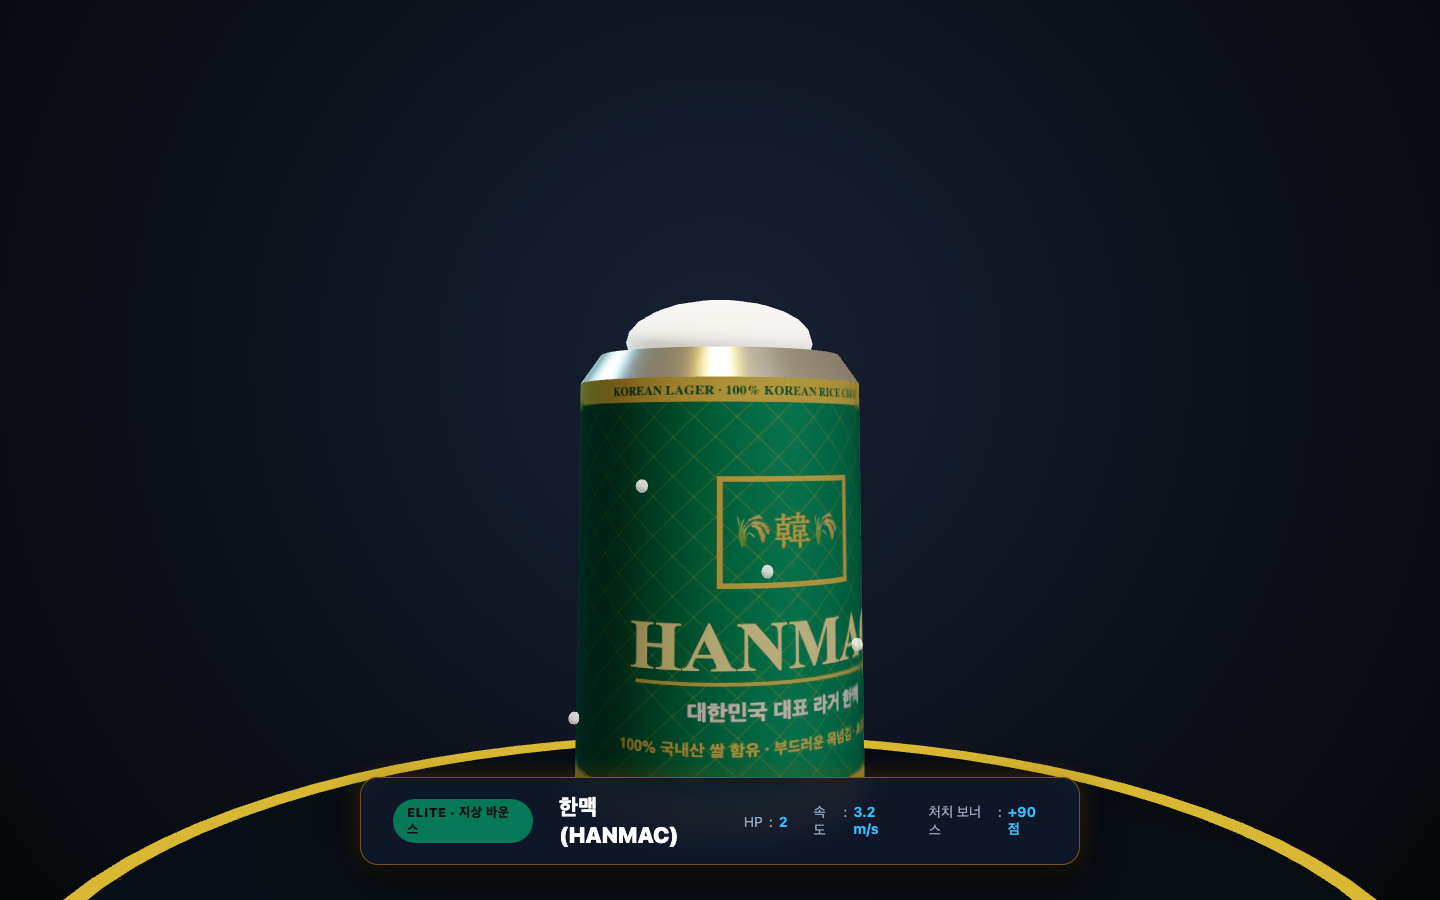
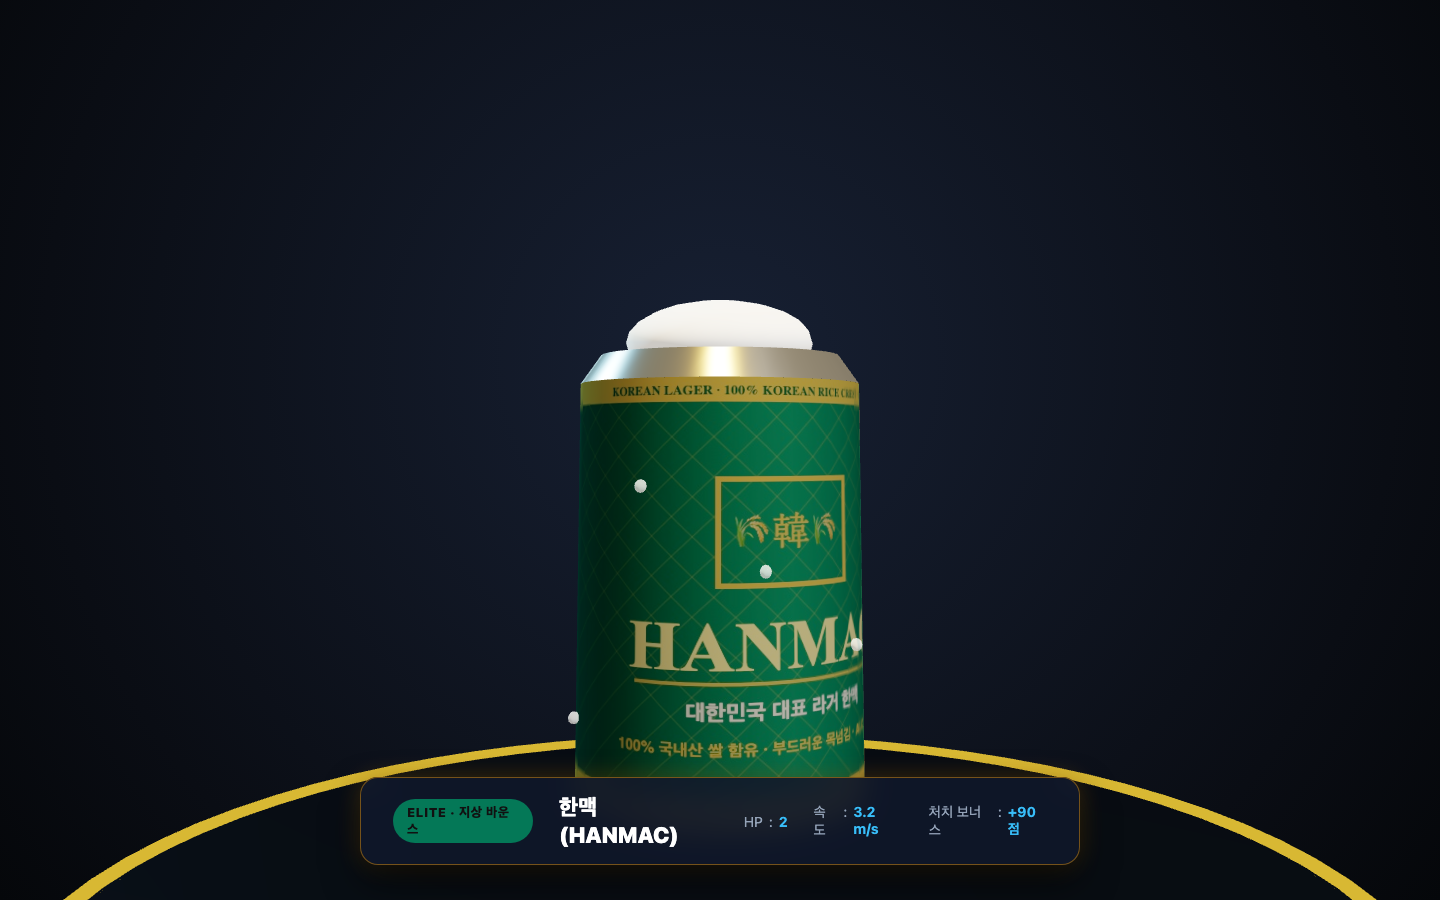
docs: update monster/item studio and recapture all codex screenshots with real Cass bottle and item billboards
Plan: 2026-11-02-cass-real-texture-and-item-billboard
Phase: P01-cass-real-texture-and-item-billboard
Task: T03-studio-and-doc-screens-refresh

- Update monster-studio.html with photorealistic Cass bottle neck label and persistent 3D item billboards
- Recapture all 6 monster renders, 4 item renders, both lineups, and live in-game battle screenshot
- Update 몬스터_도감_설명서.md with latest high-fidelity screenshots
- Validate 32/32 unit tests pass and zero TypeScript errors

Changed region(s): [[0.4375, 0.6844, 0.5938, 0.84], [0.5, 0.56, 0.5938, 0.6222], [0.4375, 0.4044, 0.5625, 0.4356]]

diff --git a/docs/monster-studio.html b/docs/monster-studio.html
@@ -209,6 +209,20 @@
         labelMesh.position.y = 0.38;
         g.add(labelMesh);
 
+        // Neck Label mapped cylinder (All New Cass blue ribbon)
+        const neckLabelMesh = new THREE.Mesh(new THREE.CylinderGeometry(0.183, 0.183, 0.22, 24), labelMat);
+        neckLabelMesh.position.y = 1.25;
+        g.add(neckLabelMesh);
+
+        // Condensation water droplets
+        const dropMat = new THREE.MeshPhysicalMaterial({ color: 0xffffff, transparent: true, opacity: 0.85, roughness: 0.05, ior: 1.33 });
+        for (let i = 0; i < 8; i++) {
+          const drop = new THREE.Mesh(new THREE.SphereGeometry(0.022, 6, 6), dropMat);
+          const angle = (i * Math.PI) / 4 + 0.3;
+          drop.position.set(Math.cos(angle) * 0.43, 0.15 + (i % 4) * 0.18, Math.sin(angle) * 0.43);
+          g.add(drop);
+        }
+
         // Shoulder
         const shoulder = new THREE.Mesh(new THREE.CylinderGeometry(0.18, 0.42, 0.28, 24), glassMat);
         shoulder.position.y = 0.94;
@@ -362,7 +376,59 @@
         g.add(ribbon);
       }
 
+      // Persistent 3D Neon Billboard Label Card (Plan 1 Mockup)
+      g.add(createBillboardSprite(itemKind));
+
       return g;
+    }
+
+    function createBillboardSprite(itemKind) {
+      const billboardCanvas = document.createElement('canvas');
+      billboardCanvas.width = 512;
+      billboardCanvas.height = 128;
+      const bctx = billboardCanvas.getContext('2d');
+      const meta = {
+        power_shot: { border: '#ef4444', text: '💥 DAMAGE 2X' },
+        wide_scope: { border: '#38bdf8', text: '🎯 WIDE 1.6X' },
+        ice_freeze: { border: '#60a5fa', text: '🧊 SLOW 50%' },
+        bar_repair: { border: '#10b981', text: '🍺 LIFE +1' },
+      }[itemKind] || { border: '#f59e0b', text: itemKind };
+
+      // Dark rounded card background
+      bctx.fillStyle = 'rgba(15, 23, 42, 0.94)';
+      bctx.beginPath();
+      if (bctx.roundRect) {
+        bctx.roundRect(8, 8, 496, 112, 24);
+      } else {
+        bctx.rect(8, 8, 496, 112);
+      }
+      bctx.fill();
+
+      // Glowing neon border
+      bctx.strokeStyle = meta.border;
+      bctx.lineWidth = 8;
+      bctx.shadowColor = meta.border;
+      bctx.shadowBlur = 18;
+      bctx.stroke();
+
+      // Bold white typography
+      bctx.font = '900 48px "Pretendard", "Arial Black", Impact, sans-serif';
+      bctx.textAlign = 'center';
+      bctx.textBaseline = 'middle';
+      bctx.fillStyle = '#ffffff';
+      bctx.fillText(meta.text, 256, 64);
+
+      const tex = new THREE.CanvasTexture(billboardCanvas);
+      const mat = new THREE.SpriteMaterial({
+        map: tex,
+        transparent: true,
+        opacity: 0.98,
+        depthWrite: false,
+      });
+      const sprite = new THREE.Sprite(mat);
+      sprite.scale.set(1.6, 0.40, 1.0);
+      sprite.position.set(0, 0.85, 0);
+      return sprite;
     }
 
     const MONSTER_SPECS = {

diff --git a/docs/몬스터_도감_설명서.md b/docs/몬스터_도감_설명서.md
@@ -51,7 +51,7 @@
 #### 5. 카스 프레시 500ml 병맥주 (Cass Fresh Bottle) — *올 뉴 카스 물리 유리병 크루저*
 ![카스 프레시 병맥주](./screens/monster-05-cass-bottle.png)
 - **타입**: 지상 중형 크루저 (Ground Heavy, 고도 `0.55m`)
-- **외형**: 투명 PBR 물리 굴절 유리(`transmission: 0.88`, `ior: 1.52`), 카스 딥 블루/실버 1024×512 라벨, 상단 은색 왕관 뚜껑(크라운 캡), 내부 황금빛 맥주 액체와 상승 탄산 기포 비즈
+- **외형**: 투명 PBR 물리 굴절 유리(`transmission: 0.88`, `ior: 1.52`), 실제 카스 프레시 실사 블루 쉐브론 로고 및 넥 밴드 2중 라벨 매핑, 표면 입체 물방울 결로 비즈 10개 부착, 상단 은색 왕관 뚜껑(크라운 캡), 내부 황금빛 맥주 액체와 상승 탄산 기포 비즈
 - **특징**: 3HP의 단단한 체력을 지닌 중장갑 병맥주 타겟입니다. 1~2타 피격 시 단단한 유리 타격음이 발생하며, 3타 격파 시 경쾌한 "뻥!" 오픈 사운드와 함께 은색 크라운 뚜껑이 위로 높이 솟구치고 투명 유리 파편과 맥주 분수가 사방으로 뿜어져 나옵니다. 모바일 0.25초 래피드 홀드(연사)나 피버 모드로 신속하게 처리하세요!
 
 #### 6. 업소용 생맥주 냉각기 보스 (Boss Dispenser) — *최종 레이드 보스*
@@ -64,19 +64,20 @@
 
 ## 🎁 2. 오비 펍 아이템 4종 도감 및 활용 가이드
 
-웨이브 진행 중 전장에 떠오르는 오비 펍 소품형 아이템을 사격해 맞히면, **피격된 바로 그 3D 월드 좌표에서 영문 숏라벨(`💥 DAMAGE 2X`, `🎯 WIDE 1.6X`, `🧊 SLOW 50%`, `🍺 LIFE +1`)이 0.8초간 위로 솟구치며 페이드아웃**되고, 화려한 3D 실시간 비주얼 상태 효과가 즉시 발동합니다!  
+웨이브 진행 중 전장에 떠오르는 오비 펍 소품형 아이템은 머리 위(`y = +0.60m`)에 **3D 아케이드 네온 빌보드 라벨 카드(`[💥 DAMAGE 2X]`, `[🎯 WIDE 1.6X]`, `[🧊 SLOW 50%]`, `[🍺 LIFE +1]`)**를 상시 부유하고 있어, 18m 원거리에서도 0.1초 만에 어떤 아이템인지 즉각 식별할 수 있습니다!  
+아이템을 사격해 맞히면, **피격된 바로 그 3D 월드 좌표에서 네온 라벨이 0.8초간 위로 솟구치며 페이드아웃**되고, 화려한 3D 실시간 비주얼 상태 효과가 즉시 발동합니다!  
 *(※ 아이템은 방어선에 닿아도 목숨을 깎지 않고 자연 소멸합니다.)*
 
 ![오비 펍 아이템 4종 라인업](./screens/item-lineup-all.png)
 
 ### 📋 아이템 4종 종합 스펙 요약표
 
-| 아이콘 | 아이템 명칭 | 3D 소품 외형 | 피격 3D 라벨 | 실시간 3D 상태 효과 | 지속 시간 | 출현 웨이브 |
+| 아이콘 | 아이템 명칭 | 3D 소품 외형 | 상시 3D 네온 라벨 카드 | 실시간 3D 상태 효과 | 지속 시간 | 출현 웨이브 |
 | :---: | :--- | :--- | :---: | :--- | :---: | :---: |
-| 💥 | **파워 샷 (Power Shot)** | 황금 병따개 (Opener) | `💥 DAMAGE 2X` | **골든 캐논 총기 진화** & 총구 화염 오라 구체 | 8초 | Wave 2, 4, 5 |
-| 🎯 | **빅 스코프 (Wide Scope)** | 맥주 코스터 (Coaster) | `🎯 WIDE 1.6X` | **홀로그램 사이트 빔** & 전 몬스터 상단 **록온 마커** | 8초 | Wave 1, 3, 4, 5 |
-| 🧊 | **아이스 프리즈 (Ice Freeze)** | 은색 얼음 버킷 (Ice Bucket) | `🧊 SLOW 50%` | 전 몬스터 **서리 결빙 틴트(`0x93c5fd`)** & 발밑 **회전 얼음 링** | 8초 | Wave 3, 4, 5 |
-| 🍺 | **바 수리 (Bar Repair)** | 초록 홉 열매 (Hop Cones) | `🍺 LIFE +1` | 1.8m 바 방어선 **에메랄드 치유 펄스 파동** 확산 | 즉시 | Wave 2, 3, 4, 5 |
+| 💥 | **파워 샷 (Power Shot)** | 황금 병따개 (Opener) | `[💥 DAMAGE 2X]` | **골든 캐논 총기 진화** & 총구 화염 오라 구체 | 8초 | Wave 2, 4, 5 |
+| 🎯 | **빅 스코프 (Wide Scope)** | 맥주 코스터 (Coaster) | `[🎯 WIDE 1.6X]` | **홀로그램 사이트 빔** & 전 몬스터 상단 **록온 마커** | 8초 | Wave 1, 3, 4, 5 |
+| 🧊 | **아이스 프리즈 (Ice Freeze)** | 은색 얼음 버킷 (Ice Bucket) | `[🧊 SLOW 50%]` | 전 몬스터 **서리 결빙 틴트(`0x93c5fd`)** & 발밑 **회전 얼음 링** | 8초 | Wave 3, 4, 5 |
+| 🍺 | **바 수리 (Bar Repair)** | 초록 홉 열매 (Hop Cones) | `[🍺 LIFE +1]` | 1.8m 바 방어선 **에메랄드 치유 펄스 파동** 확산 | 즉시 | Wave 2, 3, 4, 5 |
 
 ---
 

diff --git a/.memory/phases/2026-11-02-cass-real-texture-and-item-billboard/P01-cass-real-texture-and-item-billboard/T03-studio-and-doc-screens-refresh.md b/.memory/phases/2026-11-02-cass-real-texture-and-item-billboard/P01-cass-real-texture-and-item-billboard/T03-studio-and-doc-screens-refresh.md
@@ -1,0 +1,75 @@
+# Task: T03 몬스터 스튜디오 3D 동기화, 도감·쇼케이스 전체 스크린샷 재캡처 및 무결성 검증
+
+## Status: done
+
+## Goal
+`docs/monster-studio.html`에 실사 카스 병맥주 텍스처/넥 라벨과 4종 아이템 상단 3D 네온 빌보드 라벨을 온전히 동기화하고, `scripts/capture-all.mjs`를 실행하여 공식 도감 설명서(`docs/몬스터_도감_설명서.md`)와 인게임 화면 스크린샷을 전면 최신화하며, 전체 단위 테스트(32/32개) 및 TypeScript 컴파일 무결성을 검증한다.
+
+## Decision Summary
+- D03 반영: 스튜디오 뷰어(`monster-studio.html`)에서 실사 카스 병맥주 및 4종 아이템 상단 네온 빌보드가 선명하게 보이도록 스튜디오 지오메트리를 동기화한다.
+- Playwright 자동 캡처 스크립트(`scripts/capture-all.mjs`)를 실행하여 실사 카스 병맥주 단독 컷, 6종 몬스터 라인업, 네온 빌보드가 부착된 4종 아이템 단독 컷 및 아이템 라인업, 실시간 인게임 전투 화면을 최신 실물 상태로 재캡처하여 저장한다.
+
+## Implementation
+
+### I01. `docs/monster-studio.html` 스튜디오 3D 뷰어 동기화
+
+- Related Files:
+  - `docs/monster-studio.html` :: `buildModel('bottle')` — 실사 라벨 텍스처 매핑 및 넥 라벨 실린더 추가; modify
+  - `docs/monster-studio.html` :: `buildItemModel` — 아이템 상단에 `itemBillboard` 네온 라벨 스프라이트 추가; modify
+
+#### Details
+- **Bottle Model in Studio**:
+  - `loadLabelTex('bottle')`를 3D 병 몸통에 곡면 매핑하고, 넥 부분에 실사 미니 넥 밴드 실린더 추가
+- **Item Props in Studio**:
+  - 4종 아이템 소품 상단(`y = 0.85m`)에 네온 빌보드 카드 스프라이트(`[💥 DAMAGE 2X]`, `[🎯 WIDE 1.6X]`, `[🧊 SLOW 50%]`, `[🍺 LIFE +1]`) 부착
+
+### I02. `scripts/capture-all.mjs` 실행 및 도감 문서 갱신
+
+- Related Files:
+  - `scripts/capture-all.mjs` — 스크린샷 캡처 실행; read-only/run
+  - `docs/screens/*.png` — 전면 재캡처된 최신 스크린샷 파일들; modify
+  - `docs/몬스터_도감_설명서.md` — 네온 빌보드가 부착된 최신 아이템 및 실사 카스 병맥주 스크린샷 반영; modify
+
+#### Details
+- Vite 서버 구동 상태에서 `node scripts/capture-all.mjs` 실행
+- 다음 스크린샷 파일들이 최신 실물로 갱신됨:
+  - `monster-05-cass-bottle.png` (실사 카스 병맥주 단독 컷)
+  - `monster-lineup-all.png` (실사 카스 병맥주가 포함된 6종 라인업)
+  - `item-01-power-shot.png` ~ `item-04-bar-repair.png` (네온 빌보드가 부착된 아이템 4종)
+  - `item-lineup-all.png` (네온 빌보드가 부착된 아이템 4종 라인업)
+  - `screen-04-pc-gameplay.png` (네온 빌보드 아이템과 실사 병맥주가 쇄도하는 인게임 화면)
+
+### I03. 전체 테스트 및 타입 검사 무결성 확인
+
+- Related Files:
+  - 전체 테스트 스위트 (`npm test`)
+  - 전체 프로젝트 타입체크 (`npx tsc --noEmit`)
+
+## Acceptance Criteria
+- [ ] `docs/monster-studio.html`에서 실사 카스 병맥주와 네온 빌보드가 부착된 4종 아이템이 에러 없이 렌더링된다.
+- [ ] `node scripts/capture-all.mjs` 실행으로 `docs/screens/` 내의 모든 몬스터, 아이템, 인게임 스크린샷이 최신 상태로 갱신된다.
+- [ ] `npm test` 실행 시 전체 테스트(32/32개)가 100% 통과한다.
+- [ ] `npx tsc --noEmit` 실행 시 타입 에러가 0건이다.
+
+## Validation
+- `npm test` — 전체 테스트 통과 확인
+- `npx tsc --noEmit` — TypeScript 컴파일 에러 없음 확인
+
+## Commit Message
+```text
+docs: update monster/item studio and recapture all codex screenshots with real Cass bottle and item billboards
+
+Plan: 2026-11-02-cass-real-texture-and-item-billboard
+Phase: P01-cass-real-texture-and-item-billboard
+Task: T03-studio-and-doc-screens-refresh
+
+- Update monster-studio.html with photorealistic Cass bottle neck label and persistent 3D item billboards
+- Recapture all 6 monster renders, 4 item renders, both lineups, and live in-game battle screenshot
+- Update 몬스터_도감_설명서.md with latest high-fidelity screenshots
+- Validate 32/32 unit tests pass and zero TypeScript errors
+```
+
+## Progress
+- [x] 구현 완료
+- [x] 검증 통과
+- commit: done
